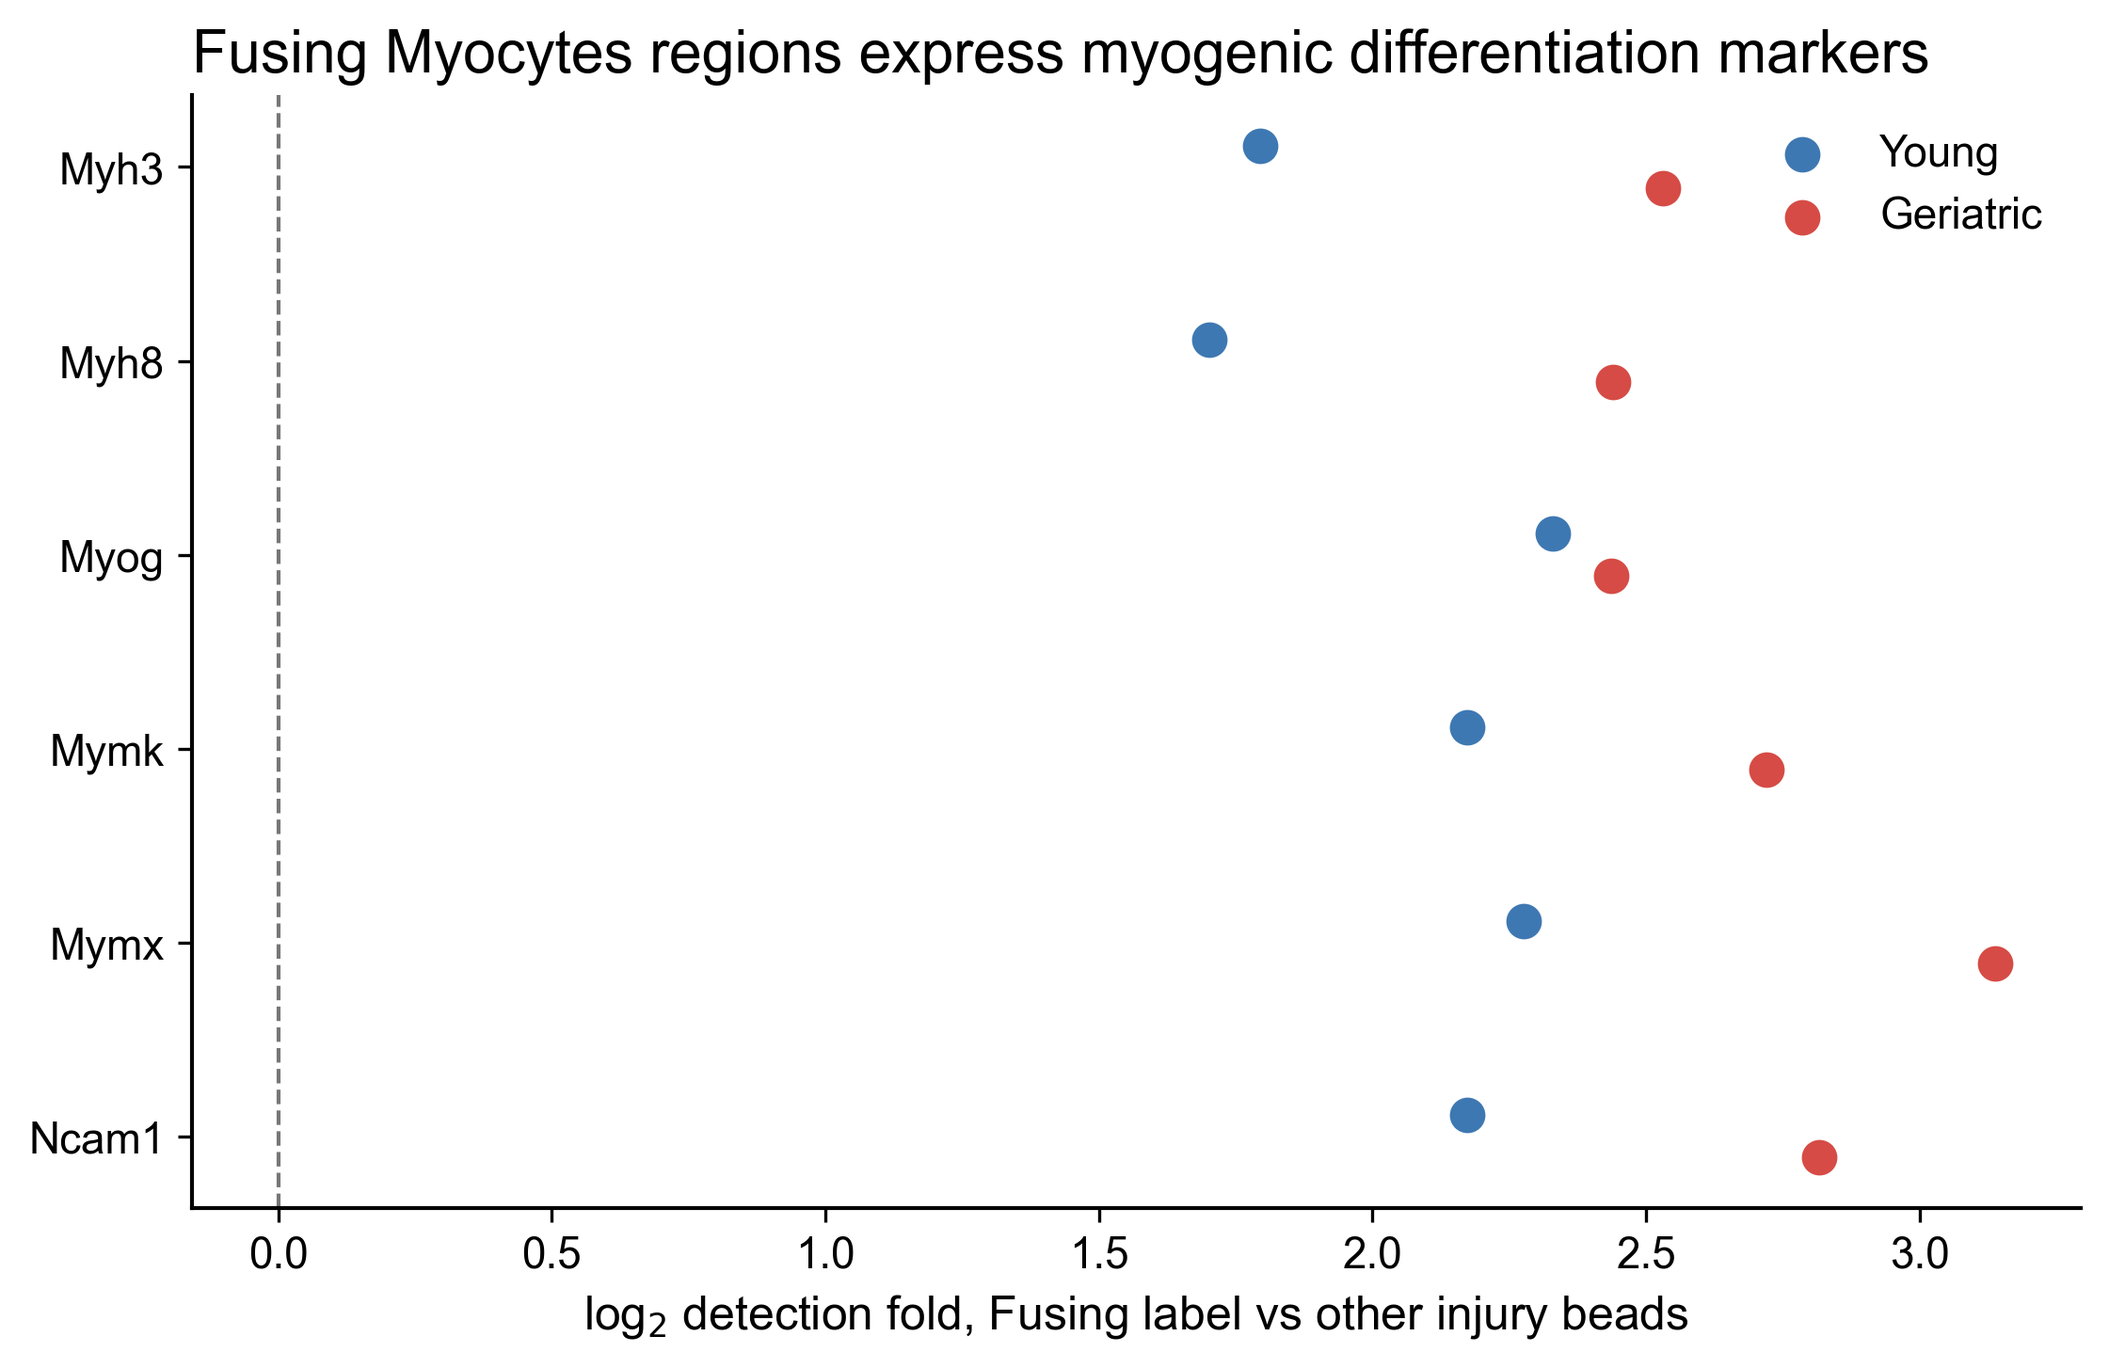
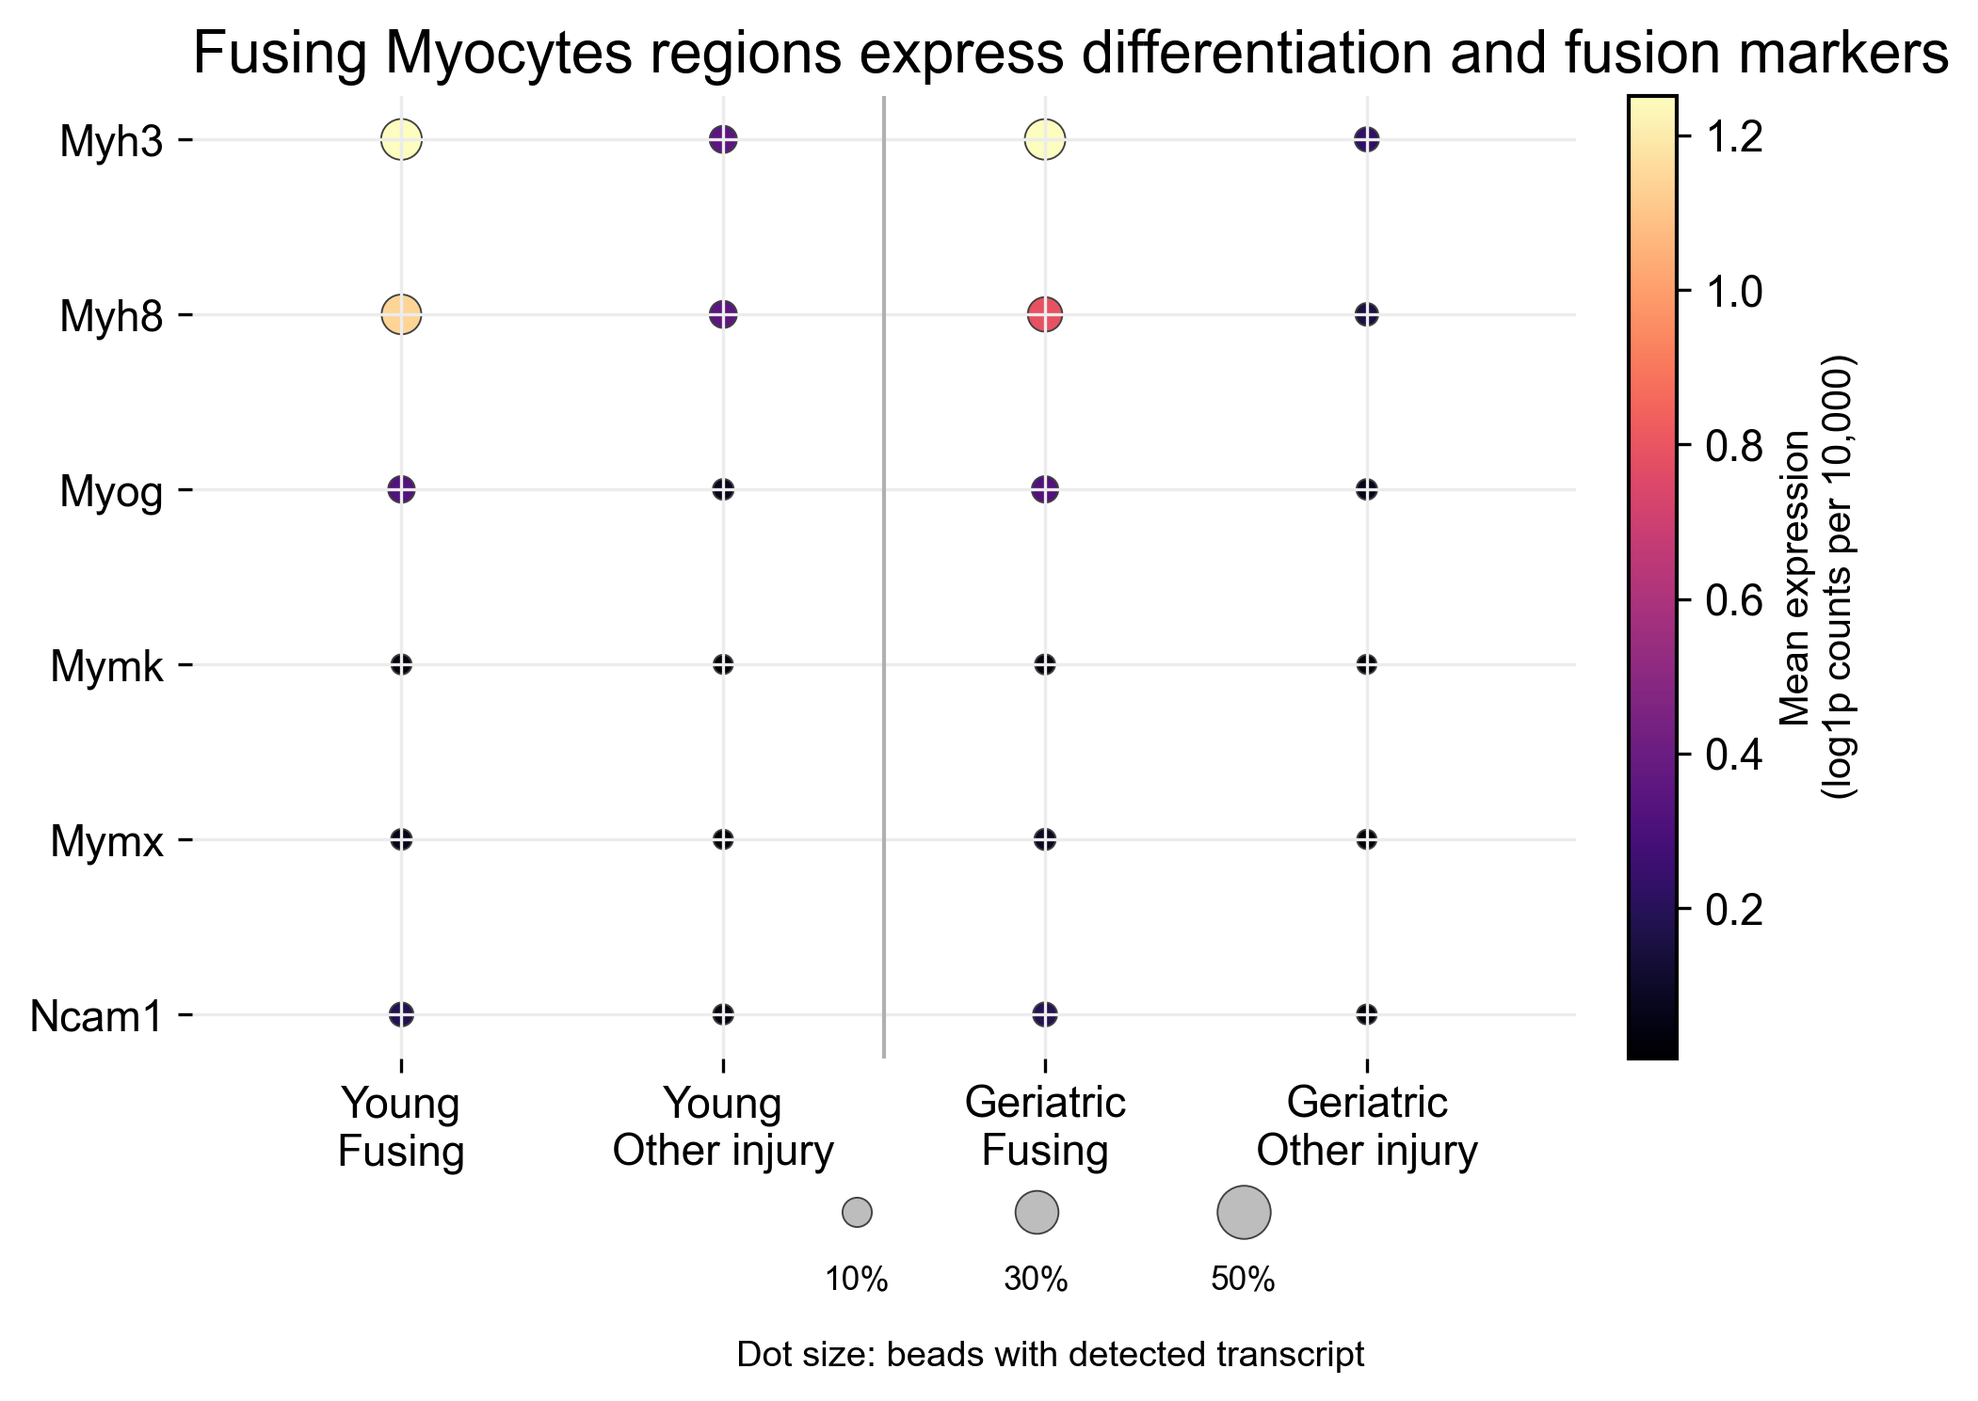
Improve Coq8a spatial association figures and documentation

diff --git a/code/run_spatial_analysis.py b/code/run_spatial_analysis.py
@@ -221,6 +221,18 @@ def coq_celltype_association(frame: pd.DataFrame) -> list[dict]:
             ]
         )
         odds, p_value = fisher_exact(table, alternative="two-sided")
+        # Preserve the exact Fisher result, but use a conventional 0.5
+        # Haldane-Anscombe correction for plotting finite ORs/CIs when a cell is zero.
+        plot_table = table.astype(float)
+        zero_cell_correction = bool(np.any(plot_table == 0))
+        if zero_cell_correction:
+            plot_table += 0.5
+        a, b = plot_table[0]
+        c, d = plot_table[1]
+        odds_plot = (a * d) / (b * c)
+        log_se = np.sqrt(1 / a + 1 / b + 1 / c + 1 / d)
+        odds_ci_low = np.exp(np.log(odds_plot) - 1.96 * log_se)
+        odds_ci_high = np.exp(np.log(odds_plot) + 1.96 * log_se)
         among_positive = table[0, 0] / table[0].sum()
         baseline = label.mean()
         rows.append(
@@ -235,6 +247,10 @@ def coq_celltype_association(frame: pd.DataFrame) -> list[dict]:
                 "baseline_label_fraction": baseline,
                 "relative_enrichment": among_positive / baseline,
                 "odds_ratio": odds,
+                "odds_ratio_plot": odds_plot,
+                "odds_ratio_ci_low": odds_ci_low,
+                "odds_ratio_ci_high": odds_ci_high,
+                "zero_cell_correction": zero_cell_correction,
                 "p_fisher": p_value,
             }
         )
@@ -258,6 +274,8 @@ def fusing_marker_audit(frame: pd.DataFrame) -> list[dict]:
                 "detection_fusing": inside,
                 "detection_other_injury": outside,
                 "detection_fold": inside / outside,
+                "mean_log1p10k_fusing": injury.loc[label, f"{gene}_log1p10k"].mean(),
+                "mean_log1p10k_other_injury": injury.loc[~label, f"{gene}_log1p10k"].mean(),
             }
         )
     return rows
@@ -536,20 +554,32 @@ def plot_celltype_association(table: pd.DataFrame, output: Path):
     ]
     names = ["Fusing Myocytes", "Myonuclei", "MuSC", "FAP", "Monocytes/Macrophages", "Dendritic", "Endothelial", "Tenocytes"]
     y = np.arange(len(selected))
-    fig, ax = plt.subplots(figsize=(8.0, 5.7))
+    fig, ax = plt.subplots(figsize=(8.2, 5.9))
+    ax.axhspan(-0.48, 0.48, color="#F5EAF2", zorder=0)
     for offset, sample in ((-0.12, "Young"), (0.12, "Geriatric")):
         data = table.loc[table["sample"].eq(sample)].set_index("cell_type").reindex(selected)
-        values = np.log2(data["relative_enrichment"].replace(0, np.nan))
-        ax.scatter(values, y + offset, s=58, color=SAMPLES[sample]["color"], label=sample, zorder=3)
+        values = data["odds_ratio_plot"].to_numpy()
+        low = data["odds_ratio_ci_low"].to_numpy()
+        high = data["odds_ratio_ci_high"].to_numpy()
+        ax.errorbar(
+            values, y + offset,
+            xerr=np.vstack([values - low, high - values]),
+            fmt="o", ms=6.7, capsize=2.7, elinewidth=1.4,
+            color=SAMPLES[sample]["color"], label=sample, zorder=3,
+        )
         sig = data["p_adj_bh_within_section_15_labels"].lt(0.05).to_numpy()
-        ax.scatter(values[sig], (y + offset)[sig], s=115, facecolors="none", edgecolors=SAMPLES[sample]["color"], linewidths=1.5)
-    ax.axvline(0, color="#777777", lw=1, ls="--")
+        for x_value, y_value, p_value in zip(values[sig], (y + offset)[sig], data.loc[sig, "p_adj_bh_within_section_15_labels"]):
+            ax.text(x_value * 1.18, y_value, "*", color="#A01863", fontsize=18, fontweight="bold", va="center")
+            ax.text(5.8, y_value, rf"adj. $p$={p_value:.3g}", color="#6A3153", fontsize=9.2, va="center")
+    ax.axvline(1, color="#777777", lw=1, ls="--")
+    ax.set_xscale("log")
+    ax.set_xlim(0.03, 45)
     ax.set_yticks(y, names)
     ax.invert_yaxis()
-    ax.set_xlabel(r"log$_2$ enrichment among Coq8a-positive injury beads")
-    ax.set_title("Coq8a-positive injury beads are enriched for Fusing Myocytes", loc="left", fontsize=15)
-    ax.legend(frameon=False, loc="upper right")
-    ax.text(0.99, 0.02, r"Open ring: BH-adjusted $p$ < 0.05", transform=ax.transAxes, ha="right", fontsize=9)
+    ax.set_xlabel("Odds ratio for a Coq8a-positive injury bead (95% CI)")
+    ax.set_title("Coq8a-positive injury beads are associated with Fusing Myocytes", loc="left", fontsize=15)
+    ax.legend(frameon=False, loc="lower right")
+    ax.text(0.99, 0.018, r"* BH-adjusted $p$ < 0.05; 0.5 correction for zero-event tables", transform=ax.transAxes, ha="right", fontsize=8.3, color="#555555")
     ax.spines[["top", "right"]].set_visible(False)
     ax.tick_params(labelsize=11)
     fig.tight_layout()
@@ -559,20 +589,45 @@ def plot_celltype_association(table: pd.DataFrame, output: Path):
 
 def plot_marker_audit(table: pd.DataFrame, output: Path):
     genes = ["Myh3", "Myh8", "Myog", "Mymk", "Mymx", "Ncam1"]
-    y = np.arange(len(genes))
-    fig, ax = plt.subplots(figsize=(7.6, 5.0))
-    for offset, sample in ((-0.11, "Young"), (0.11, "Geriatric")):
+    columns = [
+        ("Young", "Fusing", "detection_fusing", "mean_log1p10k_fusing"),
+        ("Young", "Other injury", "detection_other_injury", "mean_log1p10k_other_injury"),
+        ("Geriatric", "Fusing", "detection_fusing", "mean_log1p10k_fusing"),
+        ("Geriatric", "Other injury", "detection_other_injury", "mean_log1p10k_other_injury"),
+    ]
+    plot_rows = []
+    for x, (sample, region, detect_col, mean_col) in enumerate(columns):
         data = table.loc[table["sample"].eq(sample)].set_index("gene").reindex(genes)
-        ax.scatter(np.log2(data["detection_fold"]), y + offset, s=65, color=SAMPLES[sample]["color"], label=sample)
-    ax.axvline(0, color="#777777", lw=1, ls="--")
-    ax.set_yticks(y, genes)
+        for y, gene in enumerate(genes):
+            plot_rows.append({
+                "x": x, "y": y, "gene": gene,
+                "detection_pct": 100 * data.loc[gene, detect_col],
+                "mean_expression": data.loc[gene, mean_col],
+            })
+    plot = pd.DataFrame(plot_rows)
+    fig, ax = plt.subplots(figsize=(7.5, 5.5))
+    points = ax.scatter(
+        plot["x"], plot["y"],
+        s=24 + 3.2 * plot["detection_pct"],
+        c=plot["mean_expression"], cmap="magma", edgecolors="#404040", linewidths=0.45,
+    )
+    ax.axvline(1.5, color="#B0B0B0", lw=1)
+    ax.set_xticks(range(4), ["Young\nFusing", "Young\nOther injury", "Geriatric\nFusing", "Geriatric\nOther injury"])
+    ax.set_yticks(range(len(genes)), genes)
     ax.invert_yaxis()
-    ax.set_xlabel(r"log$_2$ detection fold, Fusing label vs other injury beads")
-    ax.set_title("Fusing Myocytes regions express myogenic differentiation markers", loc="left", fontsize=15)
-    ax.legend(frameon=False)
-    ax.spines[["top", "right"]].set_visible(False)
+    ax.set_xlim(-0.65, 3.65)
+    ax.set_title("Fusing Myocytes regions express differentiation and fusion markers", loc="left", fontsize=15)
+    ax.set_xlabel("")
     ax.tick_params(labelsize=11)
-    fig.tight_layout()
+    ax.spines[["top", "right", "left", "bottom"]].set_visible(False)
+    ax.grid(axis="both", color="#ECECEC", lw=0.8, zorder=0)
+    colorbar = fig.colorbar(points, ax=ax, fraction=0.045, pad=0.035)
+    colorbar.set_label("Mean expression\n(log1p counts per 10,000)", fontsize=10)
+    for pct, x0 in zip((10, 30, 50), (0.48, 0.61, 0.76)):
+        ax.scatter(x0, -0.16, s=24 + 3.2 * pct, transform=ax.transAxes, color="#BDBDBD", edgecolors="#404040", linewidths=0.45, clip_on=False)
+        ax.text(x0, -0.24, f"{pct}%", transform=ax.transAxes, ha="center", fontsize=8.5)
+    ax.text(0.62, -0.32, "Dot size: beads with detected transcript", transform=ax.transAxes, ha="center", fontsize=9.2)
+    fig.subplots_adjust(left=0.16, right=0.87, bottom=0.26, top=0.88)
     fig.savefig(output, dpi=300, bbox_inches="tight", facecolor="white")
     plt.close(fig)
 
@@ -583,13 +638,15 @@ def plot_local_enrichment(table: pd.DataFrame, output: Path):
         data = table.loc[table["sample"].eq(sample)].sort_values("radius_um")
         ax.plot(data["radius_um"], data["observed_to_random_ratio"], marker="o", ms=6, lw=2, color=SAMPLES[sample]["color"], label=sample)
         sig = data["p_adj_bh_across_10_radius_tests"].lt(0.05)
-        ax.scatter(data.loc[sig, "radius_um"], data.loc[sig, "observed_to_random_ratio"], s=105, facecolors="none", edgecolors=SAMPLES[sample]["color"], linewidths=1.5)
+        for x_value, y_value in zip(data.loc[sig, "radius_um"], data.loc[sig, "observed_to_random_ratio"]):
+            ax.text(x_value, y_value + 0.006, "*", color="#A01863", fontsize=15, fontweight="bold", ha="center", va="bottom")
     ax.axhline(1, color="#777777", lw=1, ls="--")
+    ax.set_ylim(0.99, 1.255)
     ax.set_xlabel("Radius around Fusing Myocytes foci (µm)")
     ax.set_ylabel("Coq8a-positive density, observed / random foci")
     ax.set_title("Coq8a is locally enriched around transcriptionally defined fusion foci", loc="left", fontsize=15)
     ax.legend(frameon=False)
-    ax.text(0.99, 0.02, r"Open ring: BH-adjusted $p$ < 0.05", transform=ax.transAxes, ha="right", fontsize=9)
+    ax.text(0.99, 0.02, r"* BH-adjusted $p$ < 0.05", transform=ax.transAxes, ha="right", fontsize=9, color="#555555")
     ax.spines[["top", "right"]].set_visible(False)
     ax.tick_params(labelsize=11)
     fig.tight_layout()

diff --git a/code/validate_release.py b/code/validate_release.py
@@ -60,12 +60,17 @@ def main() -> None:
     assert fusing.loc["Geriatric", "p_adj_bh_within_section_15_labels"] < 0.05
     assert fusing.loc["Young", "relative_enrichment"] > 1
     assert fusing.loc["Geriatric", "relative_enrichment"] > 1
+    assert fusing["odds_ratio_plot"].gt(1).all()
+    assert fusing["odds_ratio_ci_low"].gt(1).all()
+    assert association[["odds_ratio_plot", "odds_ratio_ci_low", "odds_ratio_ci_high"]].notna().all().all()
 
     marker = pd.read_csv(root / "tables" / "fusing_marker_audit.tsv", sep="\t")
     assert marker["detection_fold"].gt(1).all()
 
     presentation = root / "presentation" / "spatial_analysis_summary_final.pptx"
     assert presentation.is_file() and presentation.stat().st_size > 100_000, f"Missing presentation: {presentation}"
+    explanation = root / "presentation" / "spatial_analysis_explained_for_review_v2_final.pptx"
+    assert explanation.is_file() and explanation.stat().st_size > 100_000, f"Missing explanation deck: {explanation}"
 
     manifest = root / "tables" / "release_manifest.tsv"
     records = []

diff --git a/docs/METHODS.md b/docs/METHODS.md
@@ -20,6 +20,10 @@ Raw Coq8a counts were aligned to the processed metadata by bead barcode. A bead 
 
 Within each section's deposited injury zone, enrichment of each cell label among Coq8a-positive beads was evaluated by a two-sided Fisher exact test. P values were adjusted by the Benjamini-Hochberg procedure separately within each section across the 15 deposited cell labels. This family corresponds to the complete cell-label screen shown in the analysis table.
 
+Cell-label associations are displayed as odds ratios with 95% confidence intervals. If any cell of the corresponding 2 × 2 table was zero, 0.5 was added to all four cells only to obtain a finite odds ratio and confidence interval for plotting (Haldane–Anscombe correction). Exact Fisher P values and their Benjamini–Hochberg adjustments were calculated from the uncorrected counts.
+
+To audit the deposited Fusing Myocytes label, six differentiation/fusion markers (*Myh3*, *Myh8*, *Myog*, *Mymk*, *Mymx*, and *Ncam1*) were summarized within Fusing Myocytes-labeled and other injury-zone beads. Dot size represents the percentage of beads with at least one detected transcript; color represents mean per-bead expression after total-count normalization to 10,000 and `log1p` transformation.
+
 To test spatial proximity to fusion-associated regions, Coq8a-positive density was calculated within 25, 50, 75, 100, and 150 µm of beads labeled Fusing Myocytes. The null distribution was generated by 2,000 random selections of the same number of injury-zone focal beads. P values were adjusted across the 10 sample-by-radius tests. Robustness was examined at 50 µm after applying alternative raw-count or mitochondrial-percentage filters; these filters were not substituted for the published primary bead set.
 
 As a complementary check, injury-zone beads were aggregated into square spatial blocks of 100, 150, 200, or 250 µm, retaining blocks with at least 10 beads. Spearman correlations related the local Fusing Myocytes fraction to Coq8a detection and mean expression; significance was assessed with 5,000 label permutations and Benjamini-Hochberg adjustment across eight tests per endpoint.
@@ -27,4 +31,3 @@ As a complementary check, injury-zone beads were aggregated into square spatial 
 ## Interpretation limits
 
 The design contains one spatial section from one mouse per age. Age-related differences are descriptive and no population-level age inference is made. Curio Seeker beads can receive transcripts from more than one nearby cell; enrichment for a cell2location label does not establish cell-autonomous expression. No matched H&E image or segmented fiber morphology was deposited for these sections, so histologic fusion index, myotube number, and fiber or myotube width cannot be calculated from this dataset.
-

diff --git a/README.md b/README.md
@@ -9,6 +9,7 @@ This release reproduces a focused analysis of **Coq8a** in tibialis anterior mus
 - Cell labels: the authors' deposited cell2location abundance estimates; each bead is displayed using the cell type with the largest deposited abundance.
 - Primary endpoint: whether Coq8a-positive injury-zone beads are enriched for the Fusing Myocytes label within each section.
 - Spatial endpoint: Coq8a-positive bead density around Fusing Myocytes foci compared with random injury-zone foci.
+- Coq8a-positive definition: raw `Coq8a` count ≥ 1 on a bead; no percentile threshold is used.
 
 The release does not retrain cell2location, infer new cell types, or compare ages statistically. Each age has one biological spatial sample. Cell-type and neighborhood results are within-section associations.
 
@@ -38,10 +39,11 @@ python code/prepare_author_metadata.py \
 - `docs/`: manuscript-ready methods, interpretation, and figure guide.
 - `figures/`: one journal figure per PNG file; no combined contact sheet.
 - `tables/`: exact numerical outputs and the published-parameter audit.
-- `presentation/`: one figure per slide summary deck.
+- `presentation/`: submission-style one-figure-per-slide summary and a separate Chinese analysis-explanation deck.
 - `data/`: local source data; excluded from the public code repository because of file size and source licensing.
 
 ## Main conclusion
 
 Within both sections, Coq8a-positive beads in the injury zone are enriched for the Fusing Myocytes label. Fusing regions also show higher detection of myogenic differentiation/fusion markers, including *Myog*, *Mymk*, and *Mymx*. These observations support a local fusion-associated transcriptional niche, but they do not demonstrate cell-autonomous Coq8a expression, causality, histologic fusion index, or myotube width.
 
+The release's spatial maps are newly rendered from the deposited author coordinates, injury labels, and cell2location abundances together with GEO counts; they are not unchanged figure files exported by the original authors.

diff --git a/docs/FIGURE_GUIDE.md b/docs/FIGURE_GUIDE.md
@@ -9,10 +9,11 @@ Each result is exported as one independent PNG at 300 dpi.
 | `Fig03_Geriatric_celltype_map.png` | Geriatric section, authors' cell2location labels | Supplementary or paired main figure |
 | `Fig04_Young_Coq8a_map.png` | Young Coq8a, Fusing Myocytes, and MuSC spatial map | Main candidate |
 | `Fig05_Geriatric_Coq8a_map.png` | Geriatric Coq8a, Fusing Myocytes, and MuSC spatial map | Main candidate |
-| `Fig06_Coq8a_celltype_association.png` | Cell-label enrichment among Coq8a-positive injury beads | Main candidate |
-| `Fig07_Fusing_marker_audit.png` | Myogenic marker support for Fusing Myocytes label | Supplementary |
-| `Fig08_Coq8a_fusion_neighborhood.png` | Random-foci neighborhood enrichment across radii | Main candidate |
+| `Fig06_Coq8a_celltype_association.png` | Forest plot of cell-label associations with Coq8a-positive injury beads; odds ratios, 95% CIs, and clearly marked BH-adjusted significance | Main candidate |
+| `Fig07_Fusing_marker_audit.png` | Journal-style marker dot plot supporting the deposited Fusing Myocytes label | Supplementary |
+| `Fig08_Coq8a_fusion_neighborhood.png` | Random-foci neighborhood enrichment across radii; significant radii are marked by magenta stars | Main candidate |
 | `Fig09_Coq8a_injury_vs_outside.png` | Global injury-zone comparison | Supplementary |
 
 The cell-type maps are separate files, and the young and geriatric Coq8a maps are separate files. No composite figure is generated by the analysis code.
 
+The spatial maps are new Matplotlib renderings produced by this release. They are not screenshots or unchanged exports from the authors' notebook. Coordinates, injury labels, and cell2location `q05` abundances come from the authors' deposited processed objects; gene counts come from GEO. Coq8a-positive means raw `Coq8a` count ≥ 1 and is not percentile-based.
